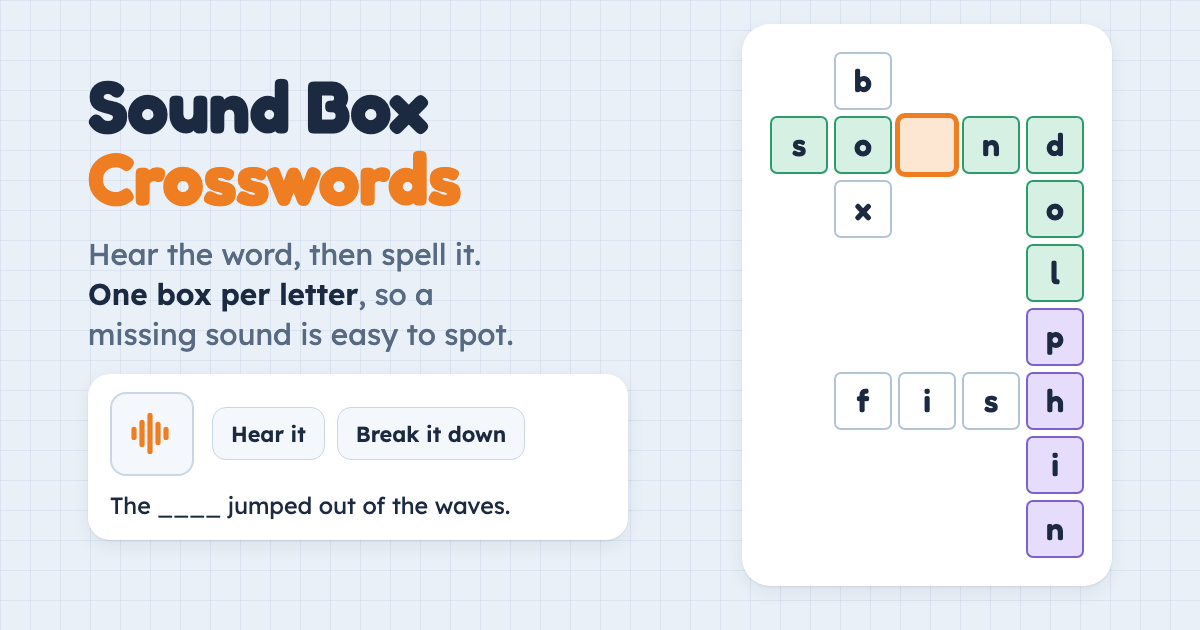
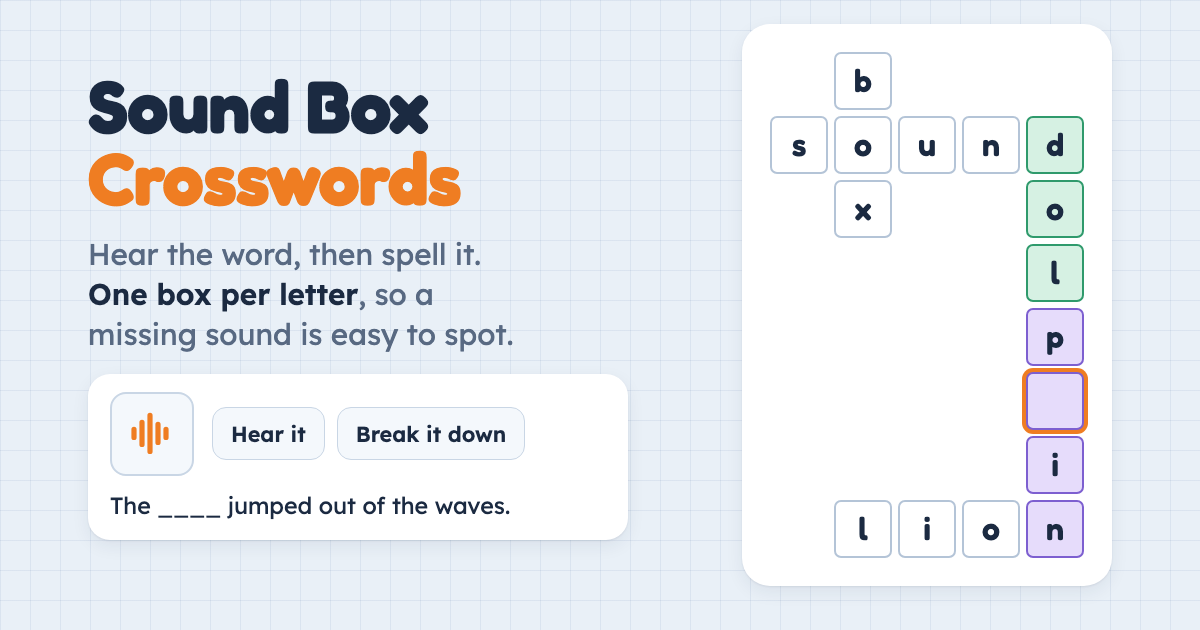
Social card: the cursor sits in the clue's word
The sentence clues dolphin, so dolphin is the current word (highlighted in
its two syllable bands) with the cursor on the box a speller often drops,
dolp_in. Sound is plain, and lion replaces fish so no other word shares the
empty box.

Changed region(s): [[0.6167, 0.181, 0.8633, 0.3016], [0.7092, 0.573, 0.925, 0.6937], [0.7092, 0.7841, 0.8325, 0.9048]]

diff --git a/scripts/social-card.html b/scripts/social-card.html
@@ -1,7 +1,7 @@
 <!doctype html>
 <!-- The link-preview image (social-card.png, 1200×630). `npm run card` renders this page with
      the app's own stylesheet, so the boxes and colors match. The words here (sound, box,
-     dolphin, fish, and the sentence) aren't pack words: the card must never spell an answer. -->
+     dolphin, lion, and the sentence) aren't pack words: the card must never spell an answer. -->
 <html lang="en" data-theme="light">
 <head>
 <meta charset="utf-8">
@@ -23,7 +23,7 @@
   .grid-card { background: var(--card); border-radius: 28px; box-shadow: var(--shadow); padding: 28px; }
   .board { --cell-size: 58px; gap: 6px; grid-template-columns: repeat(5, var(--cell-size)); }
   .cell { font-size: 2rem; }
-  .cell.empty { background: var(--accent-soft); border-color: var(--accent); }
+  .cell.cursor { box-shadow: 0 0 0 4px var(--accent); }
 </style>
 </head>
 <body>
@@ -40,19 +40,20 @@
     </div>
   </div>
   <div class="grid-card">
-    <!-- box down, sound across (one box left empty), dolphin down, fish across -->
+    <!-- box down, sound across, dolphin down (current word, one box empty), lion across -->
     <div class="board" id="board"></div>
   </div>
 </div>
 <script>
-  // [row, col, letter, classes]; an empty letter is the box still to fill. "dolphin" shows
-  // its two syllables (dol | phin) in the app's two bands.
+  // [row, col, letter, classes]; an empty letter is the box still to fill. "dolphin" is the
+  // current word (the clue's sentence is its), in the app's two syllable bands (dol | phin),
+  // with the cursor on the box a speller often drops: dolp_in.
   const A = "sel syl-a", B = "sel syl-b";
   const cells = [
     [0, 1, "b", ""], [2, 1, "x", ""],
-    [1, 0, "s", A], [1, 1, "o", A], [1, 2, "", "empty cursor"], [1, 3, "n", A], [1, 4, "d", A],
-    [2, 4, "o", A], [3, 4, "l", A], [4, 4, "p", B], [5, 4, "h", B], [6, 4, "i", B], [7, 4, "n", B],
-    [5, 1, "f", ""], [5, 2, "i", ""], [5, 3, "s", ""],
+    [1, 0, "s", ""], [1, 1, "o", ""], [1, 2, "u", ""], [1, 3, "n", ""], [1, 4, "d", A],
+    [2, 4, "o", A], [3, 4, "l", A], [4, 4, "p", B], [5, 4, "", B + " cursor"], [6, 4, "i", B], [7, 4, "n", B],
+    [7, 1, "l", ""], [7, 2, "i", ""], [7, 3, "o", ""],
   ];
   const board = document.getElementById("board");
   board.style.gridTemplateRows = "repeat(8, var(--cell-size))";
